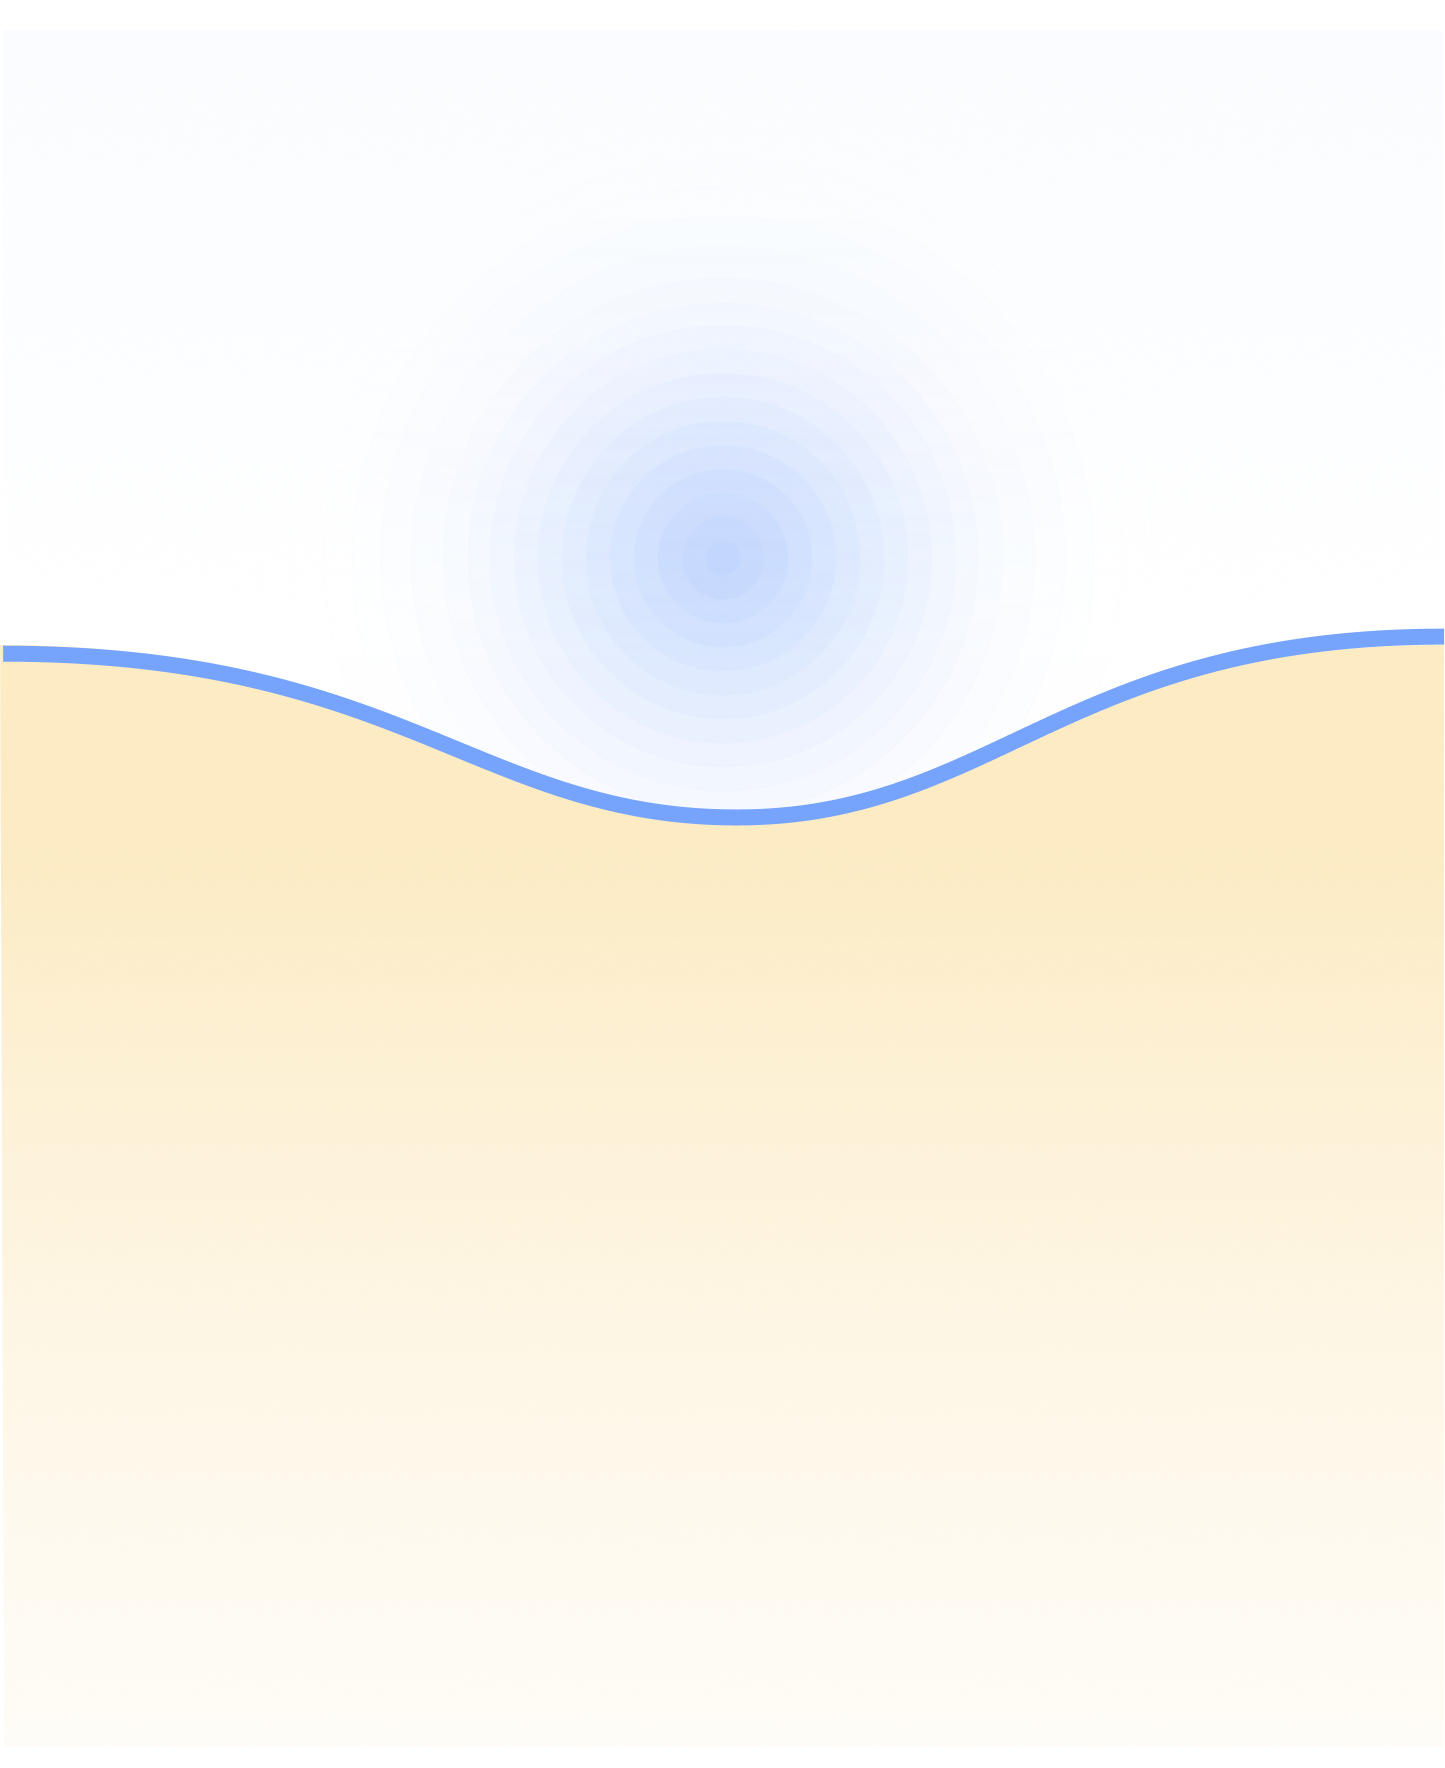
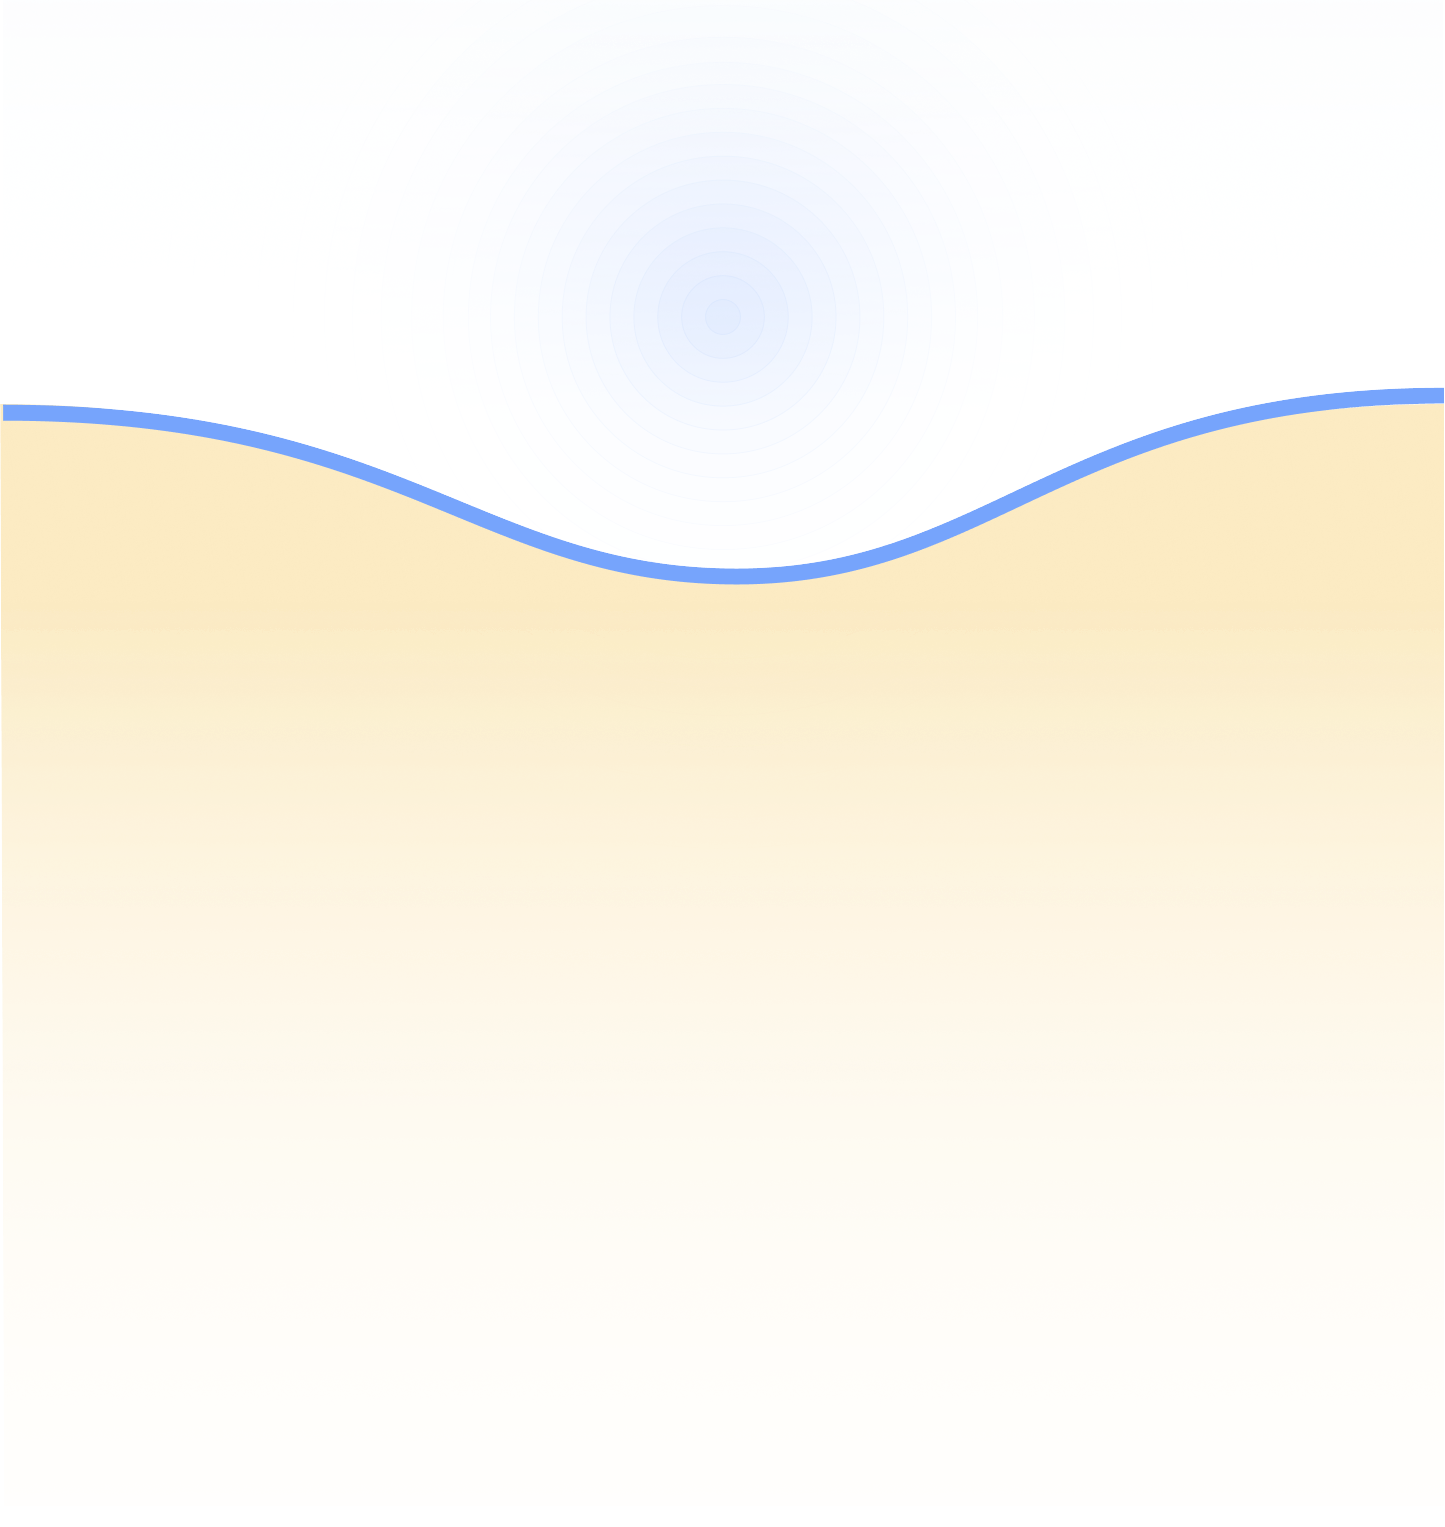
serviceoffer

Changed region(s): [[0.0, 0.2462, 1.0, 0.4925]]

diff --git a/src/components/work-abroad/serviceOfferCountryWise.js b/src/components/work-abroad/serviceOfferCountryWise.js
@@ -77,7 +77,7 @@ const ServiceOfferCountryWise = () => {
         <div className="service-container">
             {/* Service Offerings Section */}
             <div className="service-bg">
-                <Container className="py-5">
+                <Container className="py-5 con1">
                     <Row className="justify-content-center mb-4">
                         <Col md={8} className="text-center">
                             <div className="section-title heading-big-medium">Service Offerings</div>
@@ -111,7 +111,7 @@ const ServiceOfferCountryWise = () => {
                     <Row className="justify-content-center mb-3 ">
 
                         <Col md={8} className="text-center">
-                            <div className="center-container">
+                            <div className="center-container " id="chan">
                                 <div className="tag-button text-center caption-bold">
                                     <img src={airplane} alt="Airplane" className="tag-icon image-fluid" />
                                     Skill Shortage Visas
@@ -119,7 +119,7 @@ const ServiceOfferCountryWise = () => {
                             </div>
 
 
-                            <div className="heading-big-medium">Work Visa Guidance Country-wise</div>
+                            <div className="heading-big-medium">Work Visa Guidance<br />Country-wise</div>
                             <div className="paragraph-big-medium text-content-secondary">
                                 Our comprehensive services are designed to streamline the process of securing a job and work visa in your chosen country.
                             </div>

diff --git a/src/components/work-abroad/ServiceOfferCountryWise.css b/src/components/work-abroad/ServiceOfferCountryWise.css
@@ -1,7 +1,7 @@
 /* Updated CSS for Service Offerings and Country Guidance */
 
 .service-bg {
-    background-image: url("../../../src/assets/images/work-abroad/service_offer_vis_guidence.png");
+    background-image: url("../../../src/assets/images/work-abroad/service.png");
     background-size: cover;
     background-repeat: no-repeat;
     background-position: center;
@@ -17,11 +17,12 @@
     height: 100vh;
     /* Adjust as needed */
     width: 100%;
+
 }
 
 .section-title {
     color: #4F8AFB !important;
-    margin-bottom: 12px !important;
+    margin-bottom: -100 !important;
 }
 
 .service-wave-layout {
@@ -145,6 +146,10 @@
     margin-bottom: 8px;
 }
 
+#chan {
+    height: fit-content;
+}
+
 .country-flag {
     width: 56px !important;
     height: auto !important;
@@ -186,4 +191,5 @@
     .country-card {
         margin-bottom: 20px;
     }
+
 }
